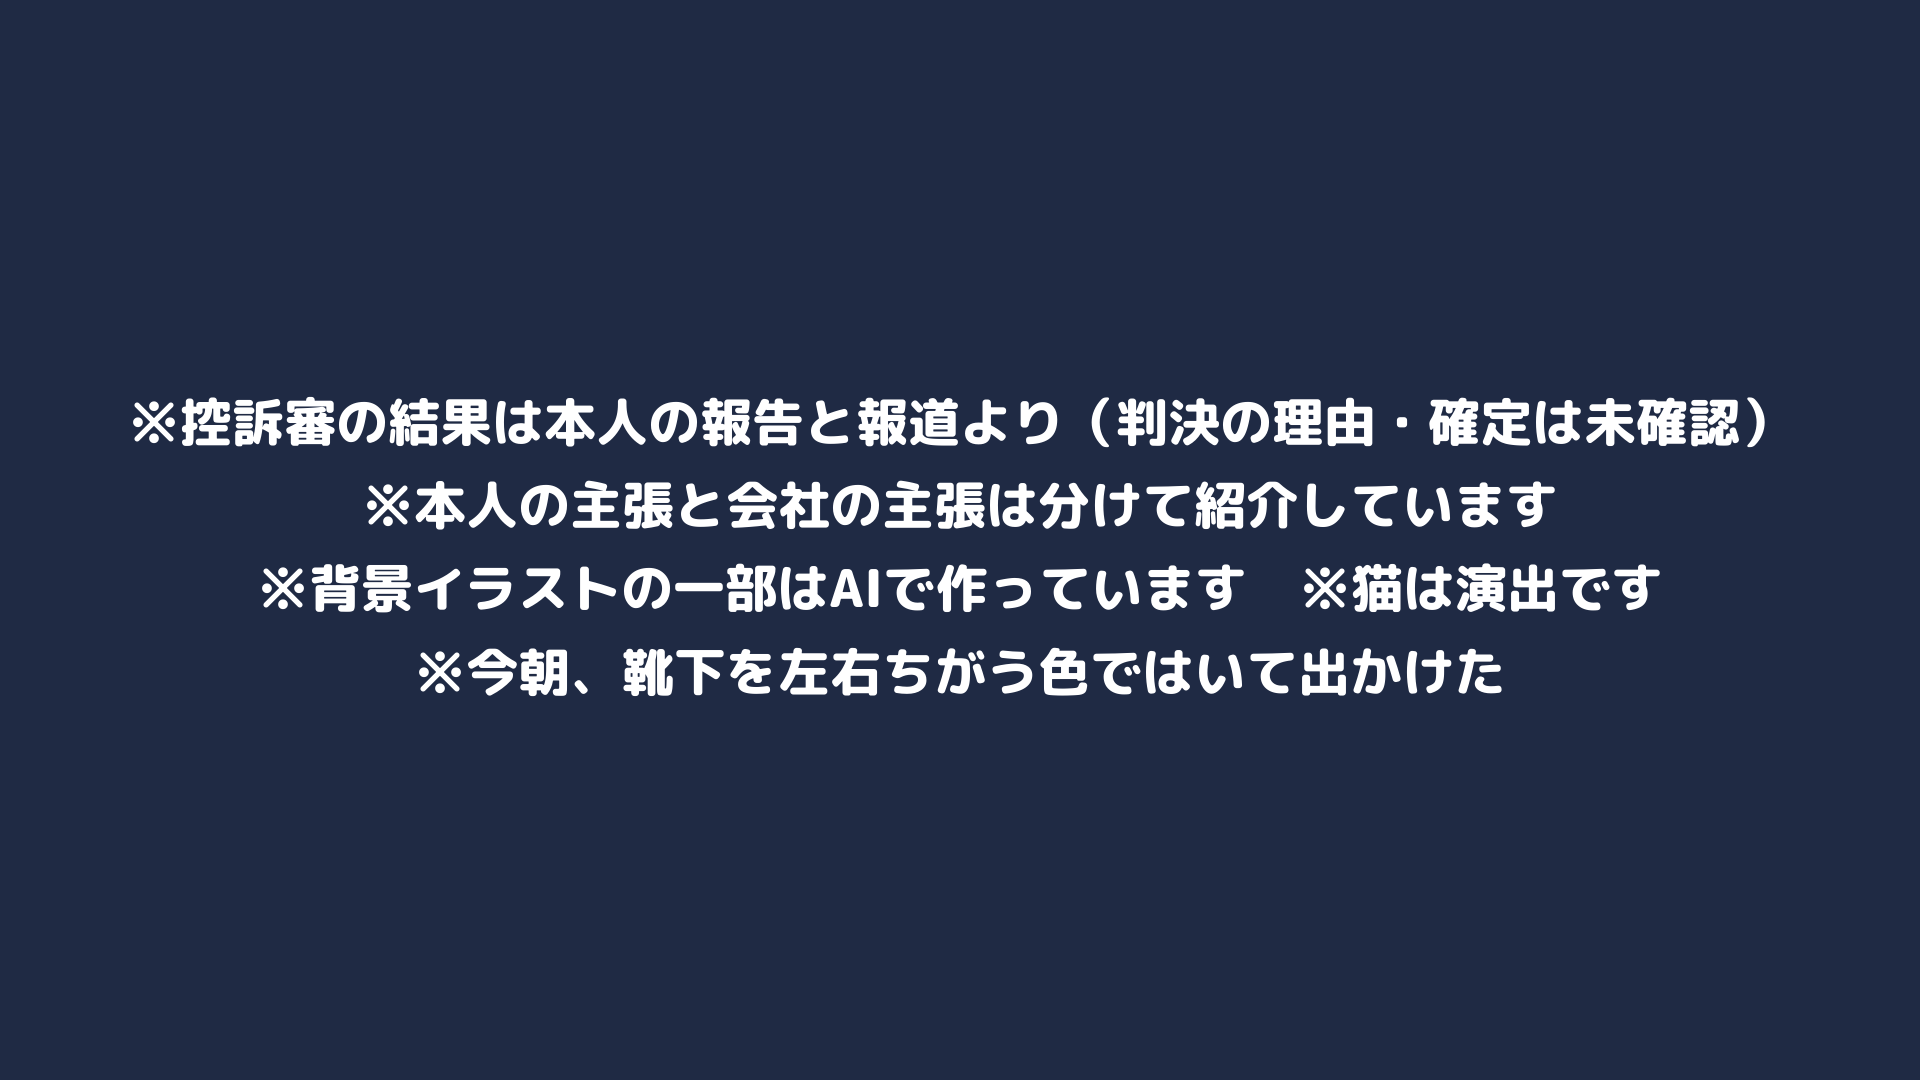
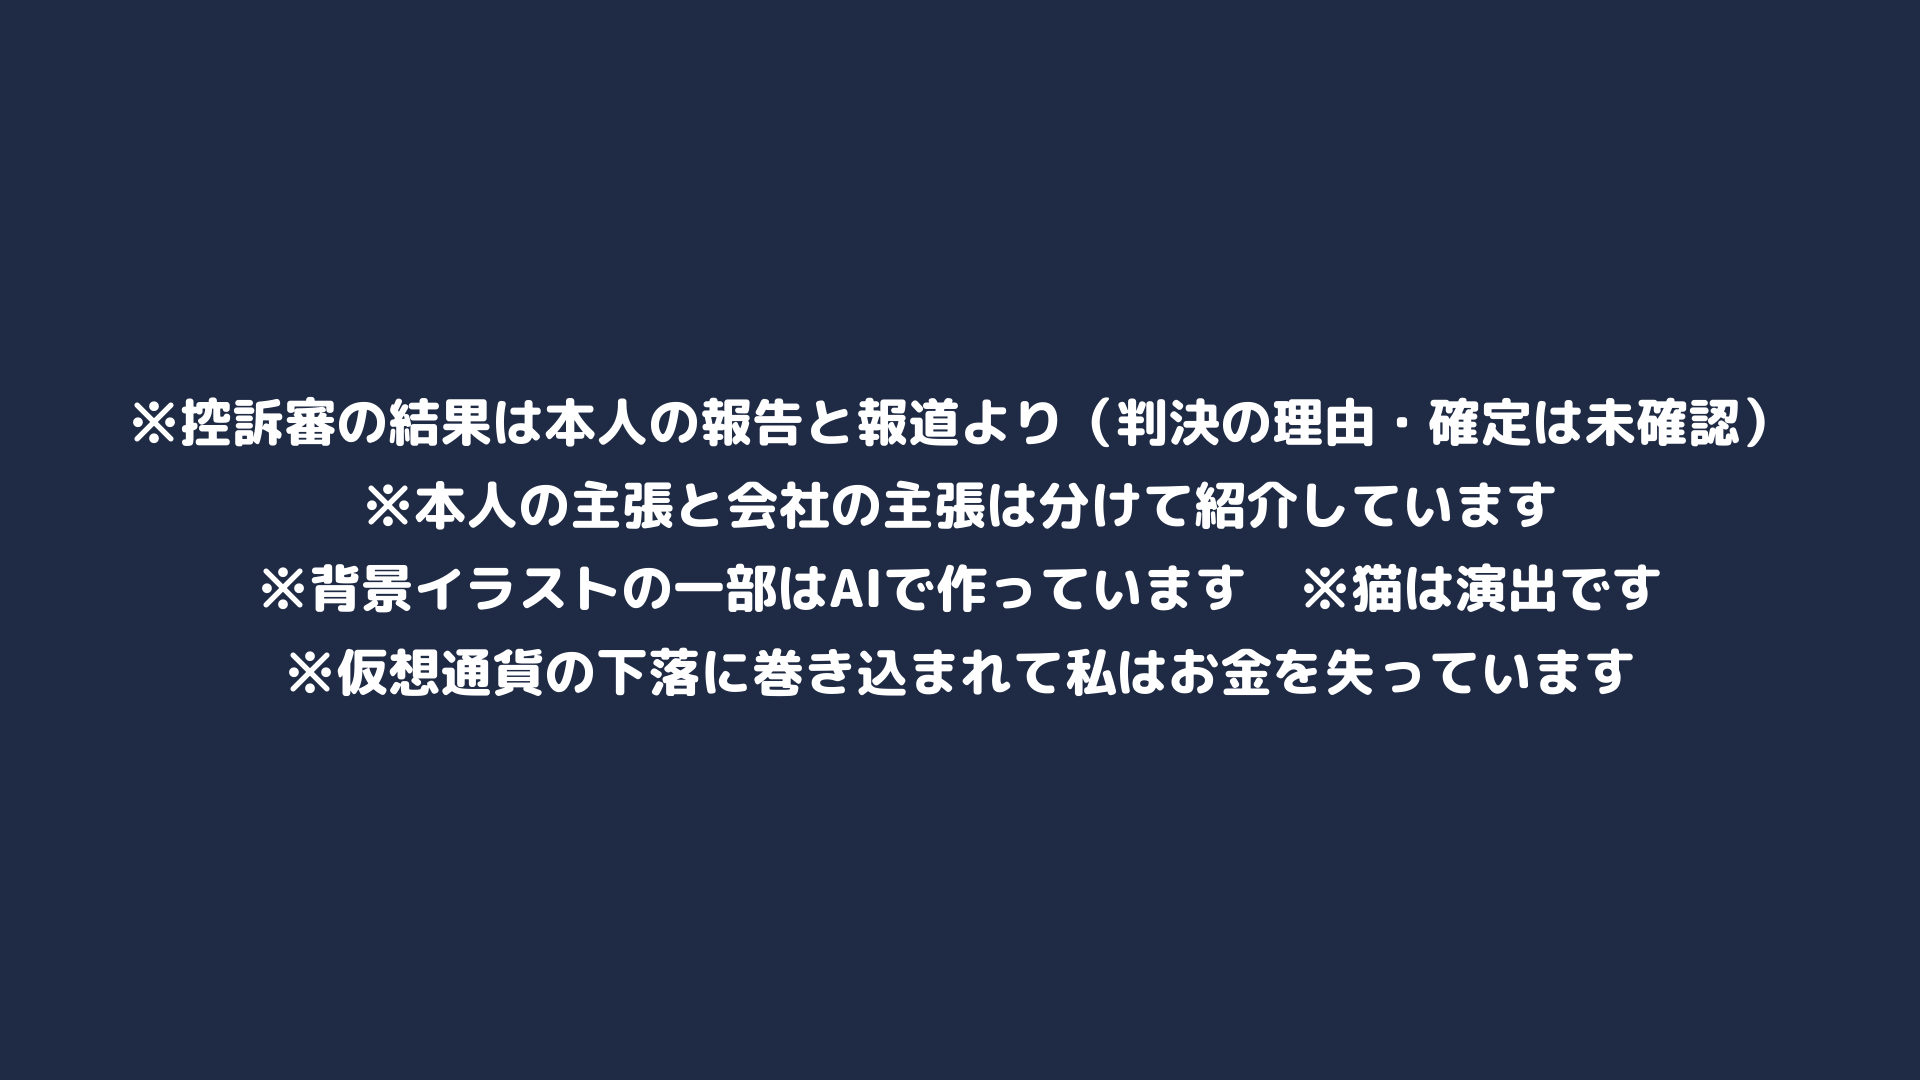
16_tenchim: update today's one-liner (user specified)
Claude-Session: https://claude.ai/code/session_011g9CsrfFD5YswfNSvNDW39

Changed region(s): [[0.1562, 0.5806, 0.8438, 0.6417]]

diff --git a/catmeme/make_parts_16_tenchim.py b/catmeme/make_parts_16_tenchim.py
@@ -18,7 +18,7 @@ ITEMS = {
     "e00_notice": P.message(["※控訴審の結果は本人の報告と報道より（判決の理由・確定は未確認）",
                              "※本人の主張と会社の主張は分けて紹介しています",
                              "※背景イラストの一部はAIで作っています　※猫は演出です",
-                             "※今朝、靴下を左右ちがう色ではいて出かけた"], opaque=True, size=52),   # 最後の行は今日の一言
+                             "※仮想通貨の下落に巻き込まれて私はお金を失っています"], opaque=True, size=52),   # 最後の行は今日の一言（10/14 ユーザー指定）
     "e01_title": P.message(["てんちむ　3億8,000万円の賠償命令が", "控訴審で取り消しに"], sub="ナイトブラ「モテフィット」裁判（2026年10月14日 本人が報告）", size=80),
     "e01_money": table3("金額の意味を分けよう", ("いつ", "金額", "なんのお金？"), [
         ("2020年11月", "約3億7,000万円", "返金の見込み（本人の発表）"),

diff --git a/catmeme/scripts/16_tenchim.md b/catmeme/scripts/16_tenchim.md
@@ -9,7 +9,7 @@
 - 逆転勝訴を「宣伝に問題がなかった証明」にしない（第9章）
 - 本人は猫で演じない。写真の場面は猫を顔にかけず、字幕は下の帯に出す。私生活の未公開情報（家族など）は使わない
 - 主語の団体（YUIKU・東京地裁・東京高裁）は団体名の札つきの猫だけで出す
-- 今日の一言：「※今朝、靴下を左右ちがう色ではいて出かけた」
+- 今日の一言：「※仮想通貨の下落に巻き込まれて私はお金を失っています」（ユーザー指定）
 
 ## 指示書から変えたところ
 - 「会社側が在庫損失などを主張」：確認できなかったので使っていない（説明義務違反を主張したことは確認）
